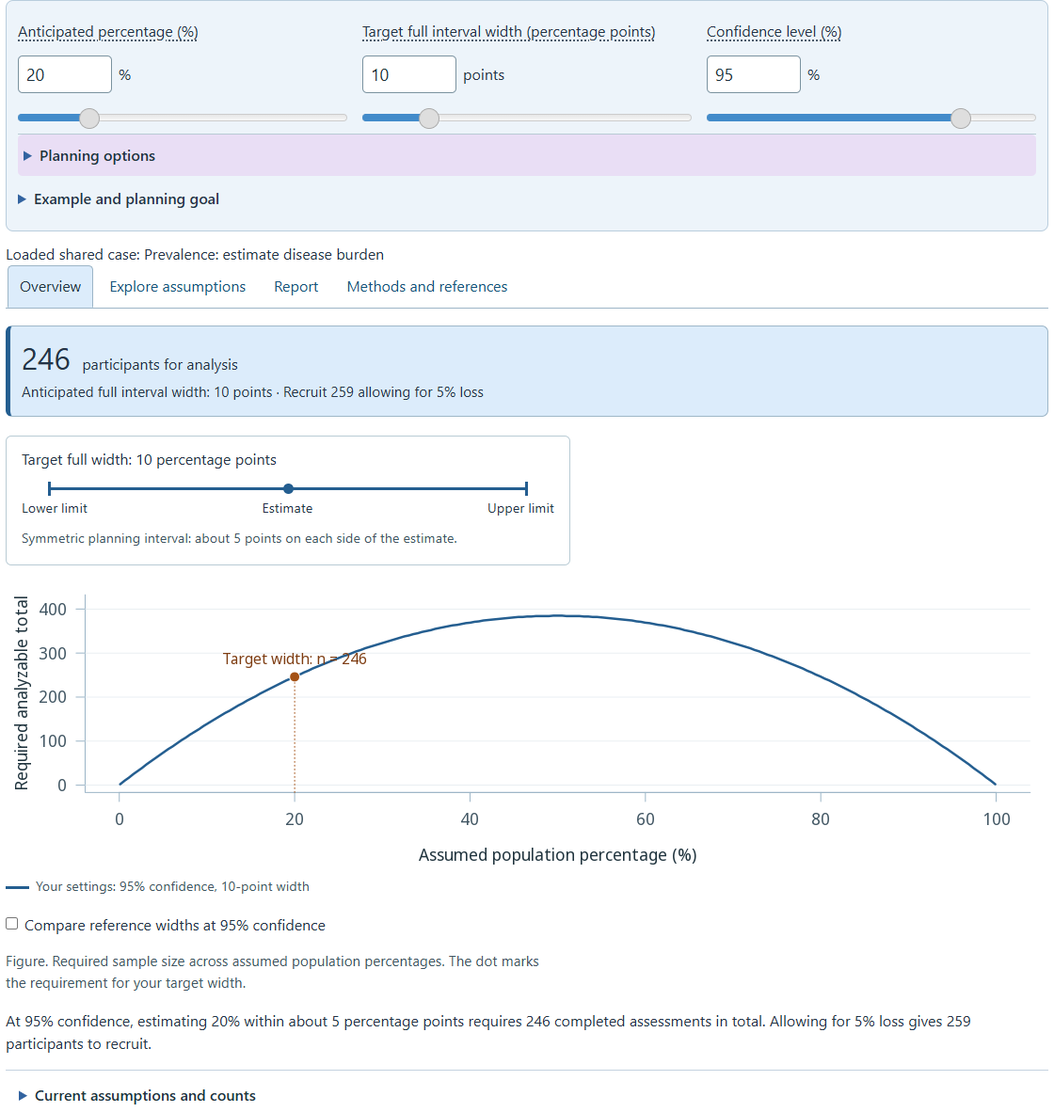
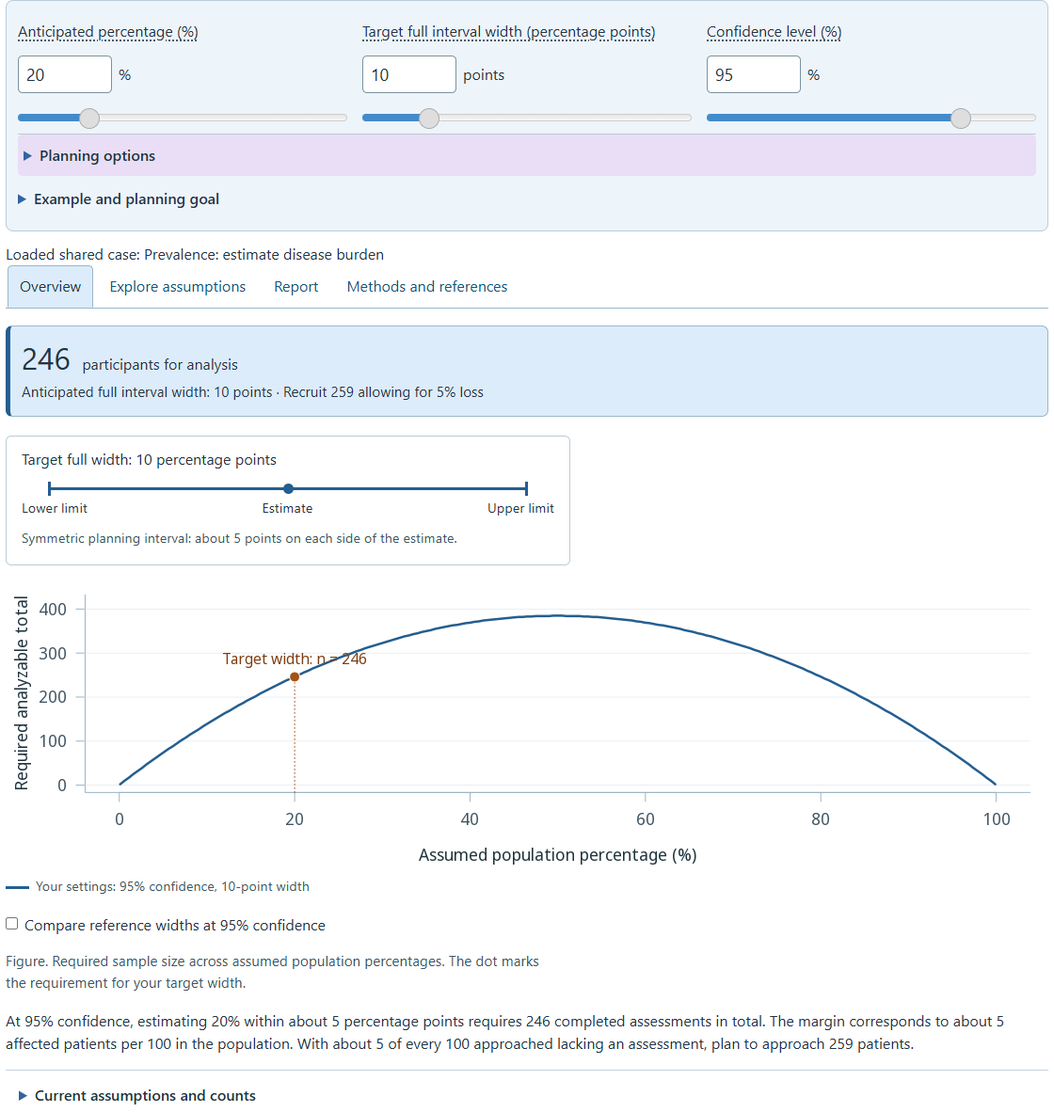
Clarify estimation and support advanced study reports

Changed region(s): [[0.0, 0.9137, 0.9375, 0.9442]]

diff --git a/site/assumptions_report/report.js b/site/assumptions_report/report.js
@@ -38,6 +38,7 @@
     ]]
   ];
   groups[2][1].push(groups[3][1].shift());
+  groups[1][1].push(...AdvancedPlan.fields);
   const fields = groups.flatMap(group => group[1]);
   let reportLines = [];
   let pendingSaved = null, planActive = false;
@@ -52,6 +53,7 @@
     document.querySelectorAll('#save,#save-word,#download,#download-word,#download-text,#save-work').forEach(el => el.disabled = !!saved);
   }
   const questions = {
+    ...AdvancedPlan.questions,
     question: 'What question should your study answer?',
     population: 'Who is the study about? (Population)',
     intervention: 'What intervention or exposure will you study? (Intervention)',
@@ -102,7 +104,8 @@
   function answerFormats(value) {
     const single = value.study_type === 'single', binary = value.outcome === 'binary', pilot = value.goal === 'feasibility';
     const units = binary ? 'percentage points' : '[outcome units]';
-    return {
+    const result = {
+      ...AdvancedPlan.formats,
       question: pilot ? 'Can [study procedures] meet [feasibility criteria] within [time and resources]?'
         : value.study_type === 'other' ? '[Research question] about [primary outcome] in [population] at [assessment time].'
         : single ? 'What is the ' + (binary ? 'percentage with [condition]' : 'mean [outcome]') + ' in [population] at [time]?'
@@ -141,9 +144,24 @@
       conclusion: pilot ? '[Feasibility results] would support [proceed, amend, or stop] under [agreed criteria].'
         : 'The study could establish [finding] with [power or precision]. [Uncertain assumptions or design limitations] restrict the conclusion.'
     };
+    if (AdvancedPlan.complex(value)) Object.assign(result, {
+      question: '[Research question] about [population and outcome] at [time].',
+      scale: '[Outcome or effect measure], in [units], with [direction of interpretation].',
+      expected: '[Prior estimates] from [sources], with [uncertainty and relevance].',
+      clinical: '[Clinically important result], justified by [clinical or patient evidence].',
+      planning: '[Effect assumed for power] on [scale], supported by [evidence].',
+      variation: '[Distribution, variability or event assumptions] from [sources].',
+      power: '[Type I error probability and sidedness]; [power criterion] at [stated effect or scenario].',
+      counts: '[Independent units, participants or events required] from [method and inputs], rounded as [rule].',
+      analysis: '[Analysis and decision rule], accounting for [design features].',
+      software: '[Software and version], [procedure or code version], [saved inputs and output], calculated on [date].',
+      precision: '[Interval measure, units and confidence level], with [desired precision].',
+      recruitment: '[Recruitment count and schedule], allowing for [missing outcomes, censoring or other relevant losses].'
+    });
+    return result;
   }
   function examples(value) {
-    if (value.plan_basis !== 'pain' || value.study_type === 'other') return answerFormats(value);
+    if (value.plan_basis !== 'pain' || AdvancedPlan.complex(value)) return answerFormats(value);
     const result = {...modelAnswers};
     if (value.outcome === 'continuous') Object.assign(result, {
       question: 'Does Neravixa improve the mean pain-improvement score at four weeks compared with duloxetine in adults with painful diabetic peripheral neuropathy?',
@@ -215,8 +233,8 @@
     }
     return result;
   }
-  const names = [...PlanWorkflow.metaNames, 'study_type', 'outcome', 'goal', ...fields.map(field => field[0])];
-  const choices = {plan_level: ['core', 'advanced'], plan_basis: ['own', 'pain'], study_type: ['comparison', 'single', 'other'], outcome: ['binary', 'continuous'], goal: ['testing', 'precision', 'fixed', 'both', 'feasibility']};
+  const names = [...PlanWorkflow.metaNames, 'study_type', 'outcome', 'goal', 'advanced_features', ...fields.map(field => field[0])];
+  const choices = {plan_level: ['core', 'advanced'], plan_basis: ['own', 'pain'], study_type: ['comparison', 'single', 'other'], outcome: ['binary', 'continuous', 'survival', 'other'], goal: ['testing', 'precision', 'fixed', 'both', 'feasibility']};
   const goalText = {testing: 'planning sample size to achieve specified power', precision: 'estimation with a precision target', fixed: 'assessing what fixed resources or existing data could establish', both: 'meeting both power and precision requirements', feasibility: 'supporting a pilot or feasibility decision'};
   function validate(value) {
     if (!value || typeof value !== 'object' || Array.isArray(value) || Object.keys(value).some(key => !names.includes(key))) throw Error('Choose a supported assumptions-report file.');
@@ -227,6 +245,7 @@
       clean[name] = text;
     }
     PlanWorkflow.validateMetadata(clean);
+    AdvancedPlan.validate(clean);
     return clean;
   }
   for (const [index, [title, definitions]] of groups.entries()) {
@@ -269,7 +288,7 @@
   });
   for (const [id, help] of Object.entries({
     study_type: 'One-population estimation uses a single percentage or mean. Paired, clustered, and other designs need methods that account for their observation structure.',
-    outcome: 'A binary outcome records two possibilities, such as relief or no relief. A continuous outcome records a numerical measurement, such as a pain score.',
+    outcome: 'A binary outcome records two possibilities, such as relief or no relief. A continuous outcome records a numerical measurement, such as a pain score. A time-to-event outcome records time until an event, with censoring when follow-up ends first. Other outcomes need their own measure and procedure.',
     goal: 'Power planning starts with a difference to detect; precision planning starts with an interval width. A fixed sample uses the number already available; feasibility planning uses pilot objectives.'
   })) {
     const label = document.querySelector('label[for="' + id + '"]'), input = form.elements[id];
@@ -277,8 +296,10 @@
     InputGuidance.attach(label, help, input);
   }
   PlanWorkflow.init(form, fields, groups);
+  AdvancedPlan.init(form);
   const snapshot = () => Object.fromEntries(names.map(name => [name, form.elements[name].value]));
   function active(field, value) {
+    if (field[4]?.startsWith('feature:')) return value.plan_level === 'advanced' && AdvancedPlan.selected(value).has(field[4].slice(8));
     if (field[0] === 'clinical' && value.goal === 'feasibility') return false;
     if (field[4] === 'comparison') return value.study_type !== 'single';
     if (field[4] === 'power') return !['precision', 'feasibility'].includes(value.goal) && !(value.study_type === 'single' && value.goal === 'fixed');
@@ -293,7 +314,7 @@
     const sections = [
       ['question', 'outcome_detail', 'design'],
       ['scale', 'expected', 'clinical', 'planning', 'variation'],
-      ['analysis', 'power', 'precision', 'progression', 'counts', 'software'],
+      ['analysis', ...AdvancedPlan.fields.map(field=>field[0]), 'power', 'precision', 'progression', 'counts', 'software'],
       ['recruitment']
     ];
     const labels = {question:'', outcome_detail:'Primary outcome', design:'Design and allocation',
@@ -306,17 +327,18 @@
       const field=fields.find(item=>item[0]===id);
       if (!active(field,value) || !value[id].trim()) return '';
       const answer=value[id].trim().replace(/\s+/g,' ');
-      const label=wording[id]?.[0] || labels[id];
+      const label=wording[id]?.[0] ?? labels[id] ?? field[1];
       return (label?label+': ':'')+answer+(/[.!?]["'\u201d\u2019)]?$/.test(answer)?'':'.');
     }).filter(Boolean).join(' ')).filter(Boolean);
   }
   function render(persist = true) {
     const value = snapshot(), article = document.getElementById('report'); article.replaceChildren();
     document.getElementById('advanced-plan').open=value.plan_level==='advanced';
+    AdvancedPlan.sync(value);
     const single = value.study_type === 'single';
     for (const option of form.elements.goal.options) option.disabled = single && ['testing', 'both'].includes(option.value);
     if (single && ['testing', 'both'].includes(value.goal)) { value.goal = 'precision'; form.elements.goal.value = 'precision'; }
-    const wording = single ? {
+    const wording = single && !AdvancedPlan.complex(value) ? {
       scale: ['Outcome scale and interpretation', 'An event estimate needs an explicit denominator and assessment time. A mean needs a measurement scale and units.', 'The outcome scale and interpretation are', 'What population value will you estimate, and in which units?'],
       expected: ['Anticipated percentage or mean', 'Comparable studies can support this planning value. If you have already analyzed existing data, you should label that estimate as an observed result.', 'The anticipated value and supporting evidence are', 'What population percentage or mean do you anticipate?']
     } : {};
@@ -324,7 +346,8 @@
       scale: ['Feasibility outcome scale', 'Retention needs a denominator, such as all enrolled participants. Assessment time needs units, such as minutes per visit.', 'The feasibility outcome scale is', 'How will you express the feasibility outcome?'],
       expected: ['Anticipated feasibility outcome', 'Comparable recruitment or follow-up procedures can support the planning value. Your answer should identify the source and plausible uncertainty.', 'The anticipated feasibility outcome is', 'What feasibility result do you anticipate?']
     });
-    const answers = PlanCalculationRecord.answers(value, examples(value), answerFormats(value));
+    Object.assign(wording, AdvancedPlan.wording(value));
+    const answers = {...AdvancedPlan.formats, ...PlanCalculationRecord.answers(value, examples(value), answerFormats(value))};
     for (const field of fields) {
       const [id, title, help] = field, copy = wording[id];
       const coreHelp = value.plan_level==='core' && value.study_type==='comparison' && value.goal==='testing' ? {
@@ -334,11 +357,11 @@
       } : {};
       const label = document.querySelector('label[for="' + id + '"]');
       label.textContent = copy ? copy[3] : questions[id] || title;
-      InputGuidance.attach(label, copy ? copy[1] : coreHelp[id] || help, form.elements[id], answers[id], value.plan_basis === 'pain' && value.study_type !== 'other' ? 'Example answer' : 'Suggested structure');
+      InputGuidance.attach(label, copy ? copy[1] : coreHelp[id] || help, form.elements[id], answers[id], value.plan_basis === 'pain' && !AdvancedPlan.complex(value) ? 'Example answer' : 'Suggested structure');
     }
     const intro = document.createElement('p');
-    const structure = {comparison: 'a two-group comparison', single: 'an estimate of one population percentage or mean', other: 'another design requiring a specified planning method'};
-    intro.textContent = 'This study concerns ' + structure[value.study_type] + ' with a ' + value.outcome + ' outcome. Its planning goal is ' + goalText[value.goal] + '.';
+    const structure = {comparison: 'a two-group comparison', single: ['binary','continuous'].includes(value.outcome) ? 'an estimate of one population percentage or mean' : 'an estimate for one population', other: 'another design requiring a specified planning method'};
+    intro.textContent = 'This study concerns ' + structure[value.study_type] + ' with ' + ({binary:'a binary outcome',continuous:'a continuous outcome',survival:'a time-to-event outcome',other:'the specified outcome measure'})[value.outcome] + '. Its planning goal is ' + goalText[value.goal] + '.';
     const studyTitle=value.plan_title.trim();
     if (studyTitle) {const title=document.createElement('h3');title.textContent=studyTitle;article.append(title);}
     const concise=document.createElement('section');concise.id='calculation-summary';
@@ -412,7 +435,10 @@
       status.textContent = 'Saved plan resumed. Your answers and calculations have been retained.';
     } else { PlanWorkflow.onEdit(name); render(); }
   });
-  form.addEventListener('input', event => {PlanWorkflow.onEdit(event.target.name);render();});
+  form.addEventListener('input', event => {
+    if ((event.target.name==='study_type' && event.target.value==='other') || (event.target.name==='outcome' && ['survival','other'].includes(event.target.value))) form.elements.plan_level.value='advanced';
+    PlanWorkflow.onEdit(event.target.name);render();
+  });
   form.addEventListener('submit', event => event.preventDefault());
   document.getElementById('clear').addEventListener('click', () => { if (!confirm('Clear this study plan? Save work for later first if you want to keep it.')) return; apply({}); status.textContent = 'Entries cleared. You can start a new plan.'; });
   const escapeHTML = text => String(text).replace(/[&<>"']/g, c => ({'&':'&amp;', '<':'&lt;', '>':'&gt;', '"':'&quot;', "'":'&#39;'}[c]));

diff --git a/site/assumptions_report/advanced-design.js b/site/assumptions_report/advanced-design.js
@@ -1,0 +1,76 @@
+/* Conditional study-design prompts. Teaching text CC BY-SA 4.0; code MIT. */
+(() => {
+  'use strict';
+  const features = {
+    clustered: ['Clustered or multicenter study', 'cluster_details', 'Clusters and sites',
+      'How do clusters or sites enter the calculation?',
+      'Your record should distinguish randomization to whole groups from individual randomization within sites. Include cluster/site counts, sizes and relevant correlations, with the analysis used.',
+      '[Allocation unit]; [number of clusters or sites] with [size and size variation]. The calculation uses [correlation assumptions and evidence] and [analysis method].'],
+    paired: ['Paired or repeated measurements', 'paired_details', 'Related measurements',
+      'Which measurements are related, and how is this accounted for?',
+      'Your answer should give the measurement schedule, pairing or repeated-measures structure, correlations and their sources. The calculation and analysis should use the same structure.',
+      'Each participant contributes [measurements at specified times or sites]. [Correlation or SD of differences] from [source] is used with [analysis method].'],
+    survival: ['Time-to-event outcome', 'survival_details', 'Events and follow-up',
+      'How many events and participants are needed, and over what period?',
+      'Your record should define the event, effect measure, event assumptions, accrual and follow-up periods, and censoring. Give the required event count and the recruitment needed to observe it.',
+      '[Event] is measured from [time origin]. Assuming [survival or event pattern] and [effect measure], [events] are required. Recruitment lasts [duration], with [follow-up] and [censoring assumptions], giving [participants].'],
+    margins: ['Noninferiority or equivalence', 'margin_details', 'Noninferiority or equivalence margin',
+      'What margin and hypotheses define the comparison?',
+      'Your answer should specify the margin, scale, direction, clinical justification and supporting evidence. Include the null and alternative hypotheses and error probability for the chosen testing procedure.',
+      '[Noninferiority or equivalence] uses [margin and units], justified by [clinical and historical evidence]. The hypotheses are [H0 and H1], tested with [procedure and error probability].'],
+    multiple: ['Multiple endpoints or comparisons', 'testing_details', 'Confirmatory claims',
+      'Which claims must succeed, and how are multiple tests handled?',
+      'Your record should identify the primary claims, whether all or any must succeed, their testing order, and the error-control method. Planning may also need correlations between outcomes.',
+      'Success requires [all or specified claims]. [Testing order and error-control method] apply to [family of hypotheses], with [outcome correlations and evidence] used for planning.'],
+    interim: ['Interim analyses or adaptations', 'interim_details', 'Interim decisions and sample size',
+      'When can the study stop or change, and how is that planned?',
+      'Your record should specify the timing, information available and rules for stopping or adaptation, including the final analysis. Give maximum and expected sample sizes where applicable, with the scenarios used.',
+      'At [times or information fractions], [decision rules] may stop or adapt the study. [Final method] gives [error probability and power] under [scenarios]. Maximum sample size is [count]; expected sample size is [count under stated scenario].'],
+    simulation: ['Simulation-based calculation', 'simulation_details', 'Simulation record',
+      'How was the design evaluated by simulation?',
+      'Your record should give the data-generating assumptions, analysis and decision rules, repetitions, performance criteria and Monte Carlo uncertainty. The software entry should identify code versions and random-number settings.',
+      '[Generating assumptions and scenarios] were evaluated using [analysis and decision rules] over [repetitions]. [Performance estimates and Monte Carlo uncertainty] support [selected sample size and decision].']
+  };
+  const selected = value => new Set([...(value.advanced_features || '').split(',').filter(Boolean), ...(value.outcome === 'survival' ? ['survival'] : [])]);
+  const complex = value => value.study_type === 'other' || ['survival','other'].includes(value.outcome) || selected(value).size > 0;
+  const fields = Object.entries(features).map(([key, [,id,title,,help]]) => [id,title,help,'The '+title.toLowerCase()+' are','feature:'+key]);
+  const formats = Object.fromEntries(Object.values(features).map(([,id,,,,answer]) => [id,answer]));
+  const questions = Object.fromEntries(Object.values(features).map(([,id,,question]) => [id,question]));
+  function validate(value) {
+    const keys=(value.advanced_features || '').split(',').filter(Boolean);
+    if(keys.some(key=>!Object.hasOwn(features,key)) || new Set(keys).size!==keys.length) throw Error('Invalid advanced design selection.');
+  }
+  function init(form) {
+    const holder=document.getElementById('advanced-features');
+    Object.entries(features).forEach(([key,[title]])=>{
+      const label=document.createElement('label'), input=document.createElement('input');
+      input.type='checkbox';input.dataset.planFeature=key;
+      input.addEventListener('input',event=>{
+        event.stopPropagation();
+        form.elements.advanced_features.value=[...holder.querySelectorAll('input:checked')].map(el=>el.dataset.planFeature).join(',');
+        form.elements.advanced_features.dispatchEvent(new Event('input',{bubbles:true}));
+      });
+      label.append(input,document.createTextNode(title));holder.append(label);
+    });
+  }
+  function sync(value) {
+    document.getElementById('advanced-features').hidden=value.plan_level!=='advanced';
+    const keys=selected(value);
+    document.querySelectorAll('[data-plan-feature]').forEach(input=>{
+      input.checked=keys.has(input.dataset.planFeature);
+      input.disabled=value.outcome==='survival' && input.dataset.planFeature==='survival';
+    });
+  }
+  function wording(value) {
+    if(!complex(value))return {};
+    return {
+      scale:['Outcome or effect measure','Your answer should name the measure, units and direction of interpretation, such as a hazard ratio or a population event rate.','The outcome or effect measure is','Which measure will answer your research question?'],
+      expected:['Evidence for planning values','Your answer should identify relevant prior estimates, sources and uncertainty for the chosen measure.','The evidence for planning values is','What prior estimates inform the calculation?'],
+      clinical:['Clinically important result','Your answer should explain what result would matter clinically, with supporting evidence or patient input. Design-specific margins have their own prompt below.','The clinically important result is','What result would matter clinically?'],
+      planning:['Effect assumed for power','Your answer should specify the effect at which power is evaluated, on the scale used by the calculation, and justify that choice.','The effect assumed for power is','At what effect will power be evaluated?'],
+      variation:['Distribution and event assumptions','Your record should specify the distribution, variability or event pattern needed by the selected method, with evidence. Correlations and survival follow-up have additional prompts below.','The distribution and event assumptions are','Which distribution or event assumptions does the method need?'],
+      power:['Type I error probability and power','Your record should give the error probability, sidedness and power criterion for the stated hypothesis or family of claims.','The statistical criteria are','What error probability and power criterion will you use?']
+    };
+  }
+  window.AdvancedPlan={features,fields,formats,questions,selected,complex,validate,init,sync,wording};
+})();

diff --git a/site/assumptions_report/index.html b/site/assumptions_report/index.html
@@ -12,6 +12,7 @@
   <script src="../report-exports.js" defer></script>
   <script src="plan-workflow.js" defer></script>
   <script src="calculation-record.js" defer></script>
+  <script src="advanced-design.js" defer></script>
   <script src="report.js" defer></script>
 </head>
 <body>
@@ -33,7 +34,7 @@
       <label for="plan-basis">Starting point<select id="plan-basis" name="plan_basis" form="plan-form"><option value="own">My own study</option><option value="pain">Chronic-pain teaching example</option></select></label>
       <button id="example" type="button" hidden>Start the pain-relief plan</button>
     </section></details>
-    <details id="advanced-plan"><summary>Advanced study plan</summary><p>Opening this adds detailed PICO, evidence appraisal, sensitivity and feasibility prompts. Your existing answers and saved calculations are retained in either view.</p></details>
+    <details id="advanced-plan"><summary>Advanced study plan</summary><p>Opening this adds detailed PICO, evidence appraisal, sensitivity and feasibility prompts. Under Study settings, you can select design features for additional prompts. Your existing answers and saved calculations are retained in either view.</p></details>
     <nav id="plan-stages" aria-label="Contributions to your study plan"></nav>
     <div id="plan-stage-guidance" tabindex="-1"></div>
     <section id="transfer-preview" hidden aria-label="Review a calculation before adding it">
@@ -68,10 +69,10 @@
       <form id="plan-form">
         <fieldset id="answer-fields"><legend class="sr-only">Study settings and answers</legend>
         <details id="study-settings"><summary>Study settings</summary><div class="choices">
-          <label for="study_type">Study structure<select id="study_type" name="study_type"><option value="comparison">Two-group comparison</option><option value="single">One population percentage or mean</option><option value="other">Another design: specify the method</option></select></label>
-          <label for="outcome">Primary outcome type<select id="outcome" name="outcome"><option value="binary">Binary outcome</option><option value="continuous">Continuous outcome</option></select></label>
+          <label for="study_type">Study structure<select id="study_type" name="study_type"><option value="comparison">Two-group comparison</option><option value="single">One population</option><option value="other">Another design: specify the method</option></select></label>
+          <label for="outcome">Primary outcome type<select id="outcome" name="outcome"><option value="binary">Binary outcome</option><option value="continuous">Continuous outcome</option><option value="survival">Time-to-event outcome</option><option value="other">Another outcome: specify the measure</option></select></label>
           <label for="goal">Planning goal<select id="goal" name="goal"><option value="testing">Sample size based on power</option><option value="precision">Estimation with a precision target</option><option value="fixed">Available sample fixed</option><option value="both">Both power and precision requirements</option><option value="feasibility">Pilot or feasibility decision</option></select></label>
-        </div></details>
+        </div><input type="hidden" name="advanced_features" value=""><fieldset id="advanced-features" hidden><legend>Features requiring additional planning</legend></fieldset></details>
         <div id="fields"></div>
         </fieldset>
         <details id="plan-review"><summary>Review before downloading</summary><p class="review-note"></p><ul></ul><p><a href="../book/reporting.html#report-error-activity">Activity: Review a sample size calculation report</a> provides practice with a flawed example.</p></details>
@@ -91,7 +92,7 @@
   <footer id="guidance-credit">
     <details><summary>Guidance behind the questions</summary>
       <p>The calculation record also draws on section 4.1 of the UMCG Statistical Analysis Plan template (8A.35851, version 3): primary outcome, planned test, effect assumption, error probability, power, adjustments and software. UMCG students and researchers can access the <a href="https://umcg.zenya.work/document/2f52710d-3ebc-495e-a4dc-6dee95742c78" target="_blank" rel="noopener">SAP template in Zenya</a>. The protocol, SAP and calculation should use consistent outcome definitions and methods, with changes documented.</p>
-      <p>This educational planning worksheet draws on PICO (<a href="https://doi.org/10.7326/ACPJC-1995-123-3-A12" target="_blank" rel="noopener">Richardson et al., 1995</a>), selected <a href="https://www.consort-spirit.org/" target="_blank" rel="noopener">SPIRIT 2025</a> protocol items on design, participants, interventions, outcomes, sample size and recruitment (items 12–16, 19–20), and <a href="https://doi.org/10.1136/bmj.k3750" target="_blank" rel="noopener">DELTA² (Cook et al., 2018)</a> on justifying the target difference and calculation assumptions. A full protocol should follow the complete guidance for its design.</p>
+      <p>This educational planning worksheet draws on PICO (<a href="https://doi.org/10.7326/ACPJC-1995-123-3-A12" target="_blank" rel="noopener">Richardson et al., 1995</a>), selected <a href="https://www.consort-spirit.org/" target="_blank" rel="noopener">SPIRIT 2025</a> protocol items on design, participants, interventions, outcomes, sample size and recruitment (items 12–16, 19–20), and <a href="https://doi.org/10.1136/bmj.k3750" target="_blank" rel="noopener">DELTA² (Cook et al., 2018)</a> on justifying the target difference and calculation assumptions. A full protocol should follow the complete guidance for its design. The <a href="../book/appendix.html#complex-design-record">complex-design record</a> links the guidance for additional design and testing decisions.</p>
       <p>The evidence-review prompts also draw on the studies discussed in <a href="../book/curves.html#planning-uncertainty">Choosing plausible assumptions</a>.</p>
     </details>
     <p class="note">Katalin Tamási · Teaching materials: <a href="https://creativecommons.org/licenses/by-sa/4.0/" target="_blank" rel="noopener">CC BY-SA 4.0</a> · Software: <a href="https://opensource.org/license/mit" target="_blank" rel="noopener">MIT</a></p>

diff --git a/site/assumptions_report/plan-workflow.js b/site/assumptions_report/plan-workflow.js
@@ -84,6 +84,7 @@
   function decorate(value, article, lines, active) {
     const statuses=read(value.decision_statuses,{}), records=validateRecords(value.calculation_records||'[]');currentRecords=records;
     const issues=[];let readySections=0;
+    if(AdvancedPlan.complex(value) && value.plan_level!=='advanced') issues.push('Advanced design selections are saved. The Advanced study plan view includes their additional prompts and report entries.');
     groups.forEach(([title,definitions],index)=>{
       const relevant=definitions.filter(field=>active(field,value)&&required(field,value));
       const missing=relevant.filter(([id])=>!value[id].trim());
@@ -102,6 +103,7 @@
     const calc=[...records].reverse().find(r=>r.kind==='calculation'), recruitment=[...records].reverse().find(r=>r.kind==='recruitment');
     if(!calc)issues.push('No calculator result has been attached. An external calculation can be documented in the calculation and software answers.');
     if(calc?.facts?.study_type==='comparison' && calc.facts.analyzable && recruitment?.facts?.starting_n && calc.facts.analyzable!==recruitment.facts.starting_n)issues.push('The recruitment calculation starts with '+recruitment.facts.starting_n+' per group, while the selected calculation requires '+calc.facts.analyzable+'. The recruitment calculation needs review.');
+    if(calc && AdvancedPlan.selected(value).size) issues.push('The saved calculation needs review against the selected design features and their additional assumptions.');
     if(calc?.facts?.outcome && calc.facts.outcome!==value.outcome)issues.push('The attached calculation uses a different outcome type from the current study settings.');
     if(calc?.facts?.study_type && calc.facts.study_type!==value.study_type)issues.push('The attached calculation uses a different study structure from the current study settings.');
     if(calc?.facts?.goal && calc.facts.goal!==value.goal && value.goal!=='both')issues.push('The attached calculation uses a different planning goal from the current study settings.');
@@ -164,7 +166,7 @@
     setStatuses(statuses);
   }
   function onEdit(name){
-    if(['study_type','outcome','goal','plan_basis'].includes(name)){invalidate([0,1,2,3]);return;}
+    if(['study_type','outcome','goal','plan_basis','advanced_features'].includes(name)){invalidate([0,1,2,3]);return;}
     const index=groups.findIndex(([,definitions])=>definitions.some(([id])=>id===name));
     if(index<0)return;
     invalidate([index,...(['question','design','outcome_detail','expected','clinical','planning','variation','analysis','power','precision','counts','sensitivity'].includes(name)?[2,3]:[])]);

diff --git a/site/assumptions_report/calculation-record.js b/site/assumptions_report/calculation-record.js
@@ -5,13 +5,13 @@
   const node = (tag, text) => { const el=document.createElement(tag); el.textContent=text; return el; };
   const records = value => { try {return JSON.parse(value.calculation_records || '[]');} catch (_) {return [];} };
   const selected = value => records(value).filter(r=>r.kind==='calculation').at(-1);
-  const compatible = (value, record) => record && record.facts?.outcome===value.outcome &&
+  const compatible = (value, record) => !AdvancedPlan.complex(value) && record && record.facts?.outcome===value.outcome &&
     record.facts?.study_type===value.study_type && record.facts?.goal===value.goal;
-  const showPrepared = value => prepared && value.plan_basis==='pain' && value.study_type==='comparison' &&
+  const showPrepared = value => !AdvancedPlan.complex(value) && prepared && value.plan_basis==='pain' && value.study_type==='comparison' &&
     value.outcome==='binary' && value.goal==='testing' && !selected(value);
   const pct = x => Number((100*x).toFixed(2)) + '%';
   function answers(value, result, formats) {
-    if(value.plan_basis!=='pain') return result;
+    if(value.plan_basis!=='pain' || AdvancedPlan.complex(value)) return result;
     const attached=selected(value);
     if(!attached) {
       if(showPrepared(value)) result.software='Normal approximation using stats::power.prop.test(), two-sided with strict = TRUE; R '+prepared.r_version+', stats '+prepared.stats_version+'. The prepared calculation record gives the command, inputs, date and source version.';

diff --git a/site/assumptions_report/report.css b/site/assumptions_report/report.css
@@ -79,3 +79,5 @@ body :where(h1,h2,h3,h4,h5,h6,summary,legend) :where(a,span,strong,b,code) { fon
 #calculation-summary > h3 {margin-top:0;}
 #supporting-study-plan {margin-top:1.5rem;border-top:2px solid #8298a6;padding-top:.5rem;}
 #supporting-study-plan h4 {margin-top:1.4rem;}
+
+#advanced-features{margin:.8rem 0;border:1px solid #9c82b0;border-radius:6px;padding:.8rem}#advanced-features[hidden]{display:none}#advanced-features label{display:flex;gap:.6rem;align-items:center;margin:.6rem 0}#advanced-features input{width:auto;min-width:20px;min-height:20px}

diff --git a/teaching/TEACHING_GUIDE.md b/teaching/TEACHING_GUIDE.md
@@ -19,6 +19,14 @@ The apps keep the main result visible while secondary settings can remain closed
 
 Before a larger classroom session, an initial usability pilot with about five learners can identify unclear tasks and navigation problems. The [pilot observation notes](pilot_observation_notes.md) provide a task-based protocol. After revision, a class of 20–25 can work in pairs or groups of 3–4, rotating the roles of explaining, checking assumptions and recording. The teacher should check the deployment environment and keyboard access, supply readable static alternatives and identify invented case values as hypothetical.
 
+## Interpreting numerical results
+
+The overarching outcome is critical appraisal of a study's sample size justification and the conclusions its design and results support. This uses the Evaluate level of revised Bloom's taxonomy ([Krathwohl, 2002](https://doi.org/10.1207/s15430421tip4104_2)). An assessment can ask learners to identify an unsupported assumption in a published report, explain its consequences, and justify a revision.
+
+Interpretations pair percentages with counts and explicit denominators: 20% becomes 20 patients per 100, while 90% power concerns about 90 significant results per 100 repeated trials under the stated assumptions. Treatment comparisons use the same denominator and time point in both groups. Percentages can express absolute risks; a relative change additionally needs its baseline risk. This approach draws on [Gigerenzer et al. (2007)](https://doi.org/10.1111/j.1539-6053.2008.00033.x) and [NICE (2021), recommendations 1.4.7–1.4.10](https://www.nice.org.uk/guidance/ng197/chapter/Recommendations).
+
+The evidence for natural frequencies is particularly strong in Bayesian diagnostic reasoning: [Gigerenzer and Hoffrage (1995)](https://doi.org/10.1037/0033-295X.102.4.684) and [Binder et al. (2021)](https://doi.org/10.1007/s10459-020-10025-8) support using counts and their nested groups to explain conditional probabilities. Applying concrete counts to service-planning examples is a teaching choice whose usefulness can be evaluated in the pilot.
+
 ## Selecting a learning route
 
 Chapters 1–3 form the core sequence, and Chapters 4–8 provide optional advanced branches. The glossary and common questions support either route. The [core route](../book/index.html#core-route) covers clinical assumptions, power, a simple one-study/many-studies simulation, two-group calculations, expected losses, recruitment feasibility and a complete calculation report. The [advanced route](../book/index.html#advanced-route) starts with estimation and confidence intervals in Chapter 4, then covers power curves, repeated-study simulation and other designs. Chapter headings and learning-outcome boxes use blue for core material and purple for advanced material. The [reasoning lab](https://katatam.github.io/sample-size-calculation/study/?activity=own_study) starts with basic controls; clinical importance remains visible. Settings provides advanced controls and methods.
@@ -36,7 +44,7 @@ The chronic-pain case provides the narrative thread: question, evidence, target 
 
 The report builder is a continuing workspace for these activities. Its core view has 12 prompts for a two-group power calculation. Learners can use a supplied case and short explanations. The chronic pain calculation is the core activity; probiotics and rehabilitation offer optional transfer practice. The Chapter 3 report review replaces that chapter's multiple-choice check. Chapters 1–2 retain short quizzes. The optional cumulative quiz uses different questions and shuffles their order for each new attempt. The estimation chapter offers a neuropathy prevalence example, a completed report and an error-spotting review for further practice.
 
-The [additional discharge practice](../book/exercises.html#discharge) reinforces introductory calculations. Advanced extensions cover [unequal losses and treatment switching](../book/study-designs.html#recruitment-extensions), independent evidence appraisal, plausible ranges, several sensitivity scenarios, and a fuller supporting study plan. In the report builder, opening “Advanced study plan” reveals these additional prompts while retaining the same answers. Full independent planning should be assigned only when it serves the course objectives.
+The [additional discharge practice](../book/exercises.html#discharge) reinforces introductory calculations. Advanced extensions cover [unequal losses and treatment switching](../book/study-designs.html#recruitment-extensions), independent evidence appraisal, plausible ranges, several sensitivity scenarios, and a fuller supporting study plan. In the report builder, opening “Advanced study plan” reveals these additional prompts while retaining the same answers. Under *Study settings*, learners can select advanced design features to reveal the relevant prompts. These cover dependence, survival events and follow-up, margins, multiple claims, interim decisions and simulation. External calculations should be recorded with their inputs, result, method and software. Full independent planning should be assigned only when it serves the course objectives.
 
 ## Session formats
 

diff --git a/teaching/constructive_alignment_table.md b/teaching/constructive_alignment_table.md
@@ -4,6 +4,7 @@ Use the same case and assumptions through the module, [lab](https://katatam.gith
 
 | Outcome | Learning activity | Evidence | Rubric criterion |
 |---|---|---|---|
+| Overarching: critically appraise a sample size justification | Review a published calculation or the report-review example | Identify an unsupported assumption, explain its consequences, and justify a revision | 3, 4, 10 |
 | Core: specify the comparison | Use a supplied two-arm case and a power target | PICO question and intended conclusion | 1 |
 | Core: distinguish the roles of differences | Explain the supplied target and clinical judgment | Difference observed in previous data, target difference and clinical threshold, with short justifications | 2 |
 | Core: calculate under explicit methods | Calculate the chronic pain requirement; optional probiotics or rehabilitation transfer | Inputs, method, software and reproducible counts | 4 |
@@ -13,7 +14,7 @@ Use the same case and assumptions through the module, [lab](https://katatam.gith
 | Advanced: evaluate precision | Compare CI width and clinical threshold | Interpretation of three prepared intervals | 8 |
 | Advanced: explain simulation uncertainty | Change B while keeping n fixed; check assumptions and analysis | Monte Carlo interval, seed, generating assumptions and failures | 9 |
 | Advanced: recognize complex testing decisions | Compare success rules and discuss a planned interim look using Chapter 7 | Explanation of required claims, error control, joint power, stopping and re-estimation decisions | Formative chapter check |
-| Advanced: document a complex design | Review a hypothetical protocol against the Chapter 8 advanced checklist | Prespecified rules, final analysis, software and dated protocol/SAP record | 4, 10; 9 if simulation is included |
+| Advanced: document a complex design | Select relevant design features in the report activity and review the record against the Chapter 8 checklist | Design-specific assumptions, prespecified rules, external calculation, software and dated protocol/SAP record | 4, 10; 9 if simulation is included |
 | Core: review and communicate the calculation | Identify four report problems, then check the continuing report | Consistent inputs, power interpretation, counts and loss adjustment | 4, 5, 10 |
 | Contribute an OER case | Adapt and review a case | Reviewed contribution, optional publication consent | Formative feedback |
 

diff --git a/documentation/development/build-and-publish.md b/documentation/development/build-and-publish.md
@@ -59,7 +59,7 @@ Question help is shared through `site/input-guidance.js` and `site/input-guidanc
 
 `R/model_answers.R` generates model answers from each app's current calculation objects, case context and saved simulation metadata. The shared message handler updates example disclosures without changing learner entries. Invalid calculation inputs replace numerical examples with a validity prompt. The written report follows its explicit starting point, design and goal selections. Custom-study fields receive bracketed structures immediately, including before any writing. Typing preserves the selected kind of guidance. `scripts/check_model_answers.R` and `scripts/check_dynamic_answers.cjs` check numeric consistency, case changes and preservation of written answers.
 
-The report also supports a single-population estimate, existing data and pilot feasibility. Study structure and goal control the relevant prompts; single-population estimation omits treatment thresholds and power fields, while feasibility adds objectives, denominators and progression criteria. Earlier version-1 saved entries remain supported and default to a two-group comparison when the structure is absent. Calculations for another design must come from an appropriate external method.
+The report also supports a single-population estimate, existing data and pilot feasibility. Study structure and goal control the relevant prompts; single-population estimation omits treatment thresholds and power fields, while feasibility adds objectives, denominators and progression criteria. Earlier version-1 saved entries remain supported and default to a two-group comparison when the structure is absent. Conditional advanced prompts are maintained in `site/assumptions_report/advanced-design.js`. Selected features and their answers are preserved in saved work and included in the report when applicable. Time-to-event and other outcomes use generic, method-specific guidance. Complex selections suppress the prepared independent-group teaching calculation. Calculations for another design come from an appropriate external method. `scripts/check_advanced_report.cjs` checks selection changes, current PDF/Word output, restored work and legacy compatibility.
 
 The writing-style notes are kept outside the public repository, in the project's local `working/` folder. They are excluded from the website and downloadable source package.
 

diff --git a/student-materials/study-design-guide.md b/student-materials/study-design-guide.md
@@ -68,7 +68,7 @@ $$
 \text{Design effect}=1+(m-1)\rho,
 $$
 
-where $m$ is the number of participants per cluster and $\rho$ is the [intracluster correlation coefficient (ICC)](#intracluster-correlation). For example, with 20 participants per cluster and an ICC of 0.05, the design effect is $1.95$. An initial calculation based on independent participants would therefore be multiplied by approximately 1.95. This is a starting approximation; the final calculation should also account for the number of clusters, unequal cluster sizes, and the planned analysis [@hayes1999].
+where $m$ is the number of participants per cluster and $\rho$ is the [intracluster correlation coefficient (ICC)](#intracluster-correlation). For example, with 20 participants per cluster and an ICC of 0.05, the design effect is $1.95$. An initial calculation based on independent participants would therefore be multiplied by approximately 1.95. For an initial requirement of 200 participants in total, this gives 390; with 20 patients per clinic, a plan with 20 clinics would recruit 400 patients. This is a starting approximation; the final calculation should also account for the number of clusters, unequal cluster sizes, and the planned analysis [@hayes1999].
 
 ### Treatment assigned within participants {.advanced-heading}
 

diff --git a/student-materials/activity-walkthroughs.md b/student-materials/activity-walkthroughs.md
@@ -23,6 +23,8 @@ The chronic pain case compares fictional Neravixa with duloxetine for painful di
 
 Your report develops through these four activities in the same [study-plan workspace](../assumptions_report/). The default core view asks for the essentials; “Advanced study plan” adds detailed supporting prompts to the same answers. Additional discharge practice is optional basic practice. The later simulations and independent planning are advanced extensions.
 
+For an advanced project, *Study settings* includes design features that reveal relevant questions about clusters, repeated measurements, survival outcomes, margins, multiple claims, interim decisions or simulation. The calculation and software fields can record results from an external method. These answers appear in the calculation report and supporting study plan and are retained in saved work.
+
 The chronic pain example connects the core simulation, calculation, recruitment adjustment and annotated report. Optional examples apply the method to a different outcome; any report based on one of them should retain that example throughout.
 
 ## Reports and saved work
